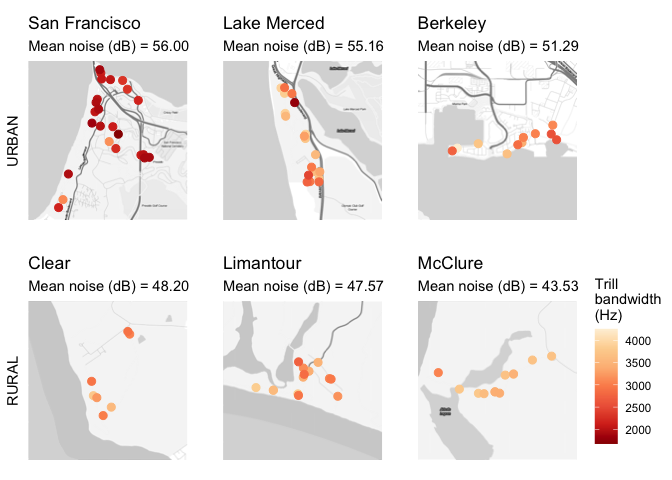
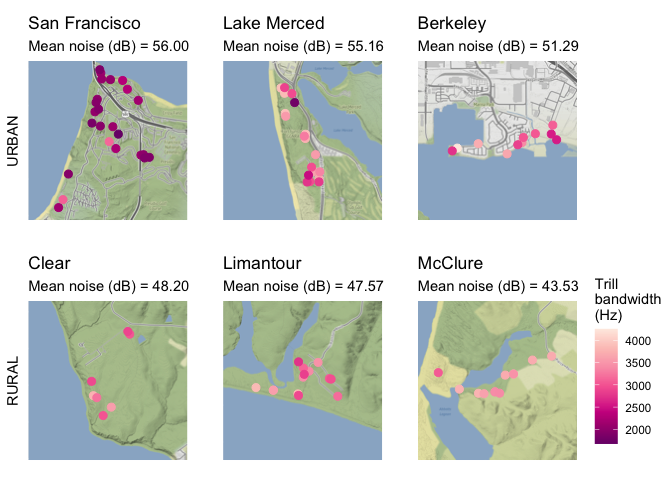
Added written analysis, messed with color scales

diff --git a/hw_7.md b/hw_7.md
@@ -43,7 +43,57 @@ ggmap(bad.map)  +
 
 ![](hw_7_files/figure-gfm/bad_plot-1.png)<!-- -->
 
+#### Analysis
+
+The gimmicky watercolor map was *probably* not the best choice. It lacks
+detail and the colors are garish.
+
+There are too many aesthetic mappings for the map data to be at all
+comprehensible; not only is point position mapped to latitude and
+longitude, but each point also has a **shape** mapping (habitat type),
+**size** mapping (song dialect), and not one but **two color** mappings
+– an inner fill color mapped to trill bandwidth, and an outline color
+mapped to background noise.
+
+Though it would be acceptable to map either trill bandwidth or
+background noise to a continuous color scale, the color combination is
+difficult to interpret (and to look at). The colors chosen for these two
+color scales are not only as unfriendly as possible to colorblind
+viewers, but also unhelpfully match the over-the-top map colors.
+
+The shape mapping is pointless, as the habitat types do not overlap
+anywhere on the map.
+
+The size mapping is an absolutely terrible choice to distinguish among
+song dialects, which are unordered factor levels. Not only does the size
+scale give a false impression of both ordered and continuous data, but
+it’s also impossible to distinguish most of the sizes. The large size of
+many of the points also exacerbates the bad overplotting.
+
+The greatest sin in this horrible graphic is the way it addresses
+overplotting: it jitters the points. While slight jitter may be
+appropriate in a scatterplot, datapoints on a map are supposed to accord
+with an actual geographical position and jittering them is a dishonest
+representation of the data. Moreover, good jitter is supposed to happen
+on a small enough scale that it doesn’t alter the interpretation of the
+data. Here the points are jittered by as much as 0.1 degrees – the
+equivalent of nearly seven miles. This makes it look as though birds
+were sampled continuously across the Bay Area (including, apparently, in
+the Pacific Ocean), when in reality they were sampled from 6 discrete
+study sites.
+
 ## Marginally better plot
+
+The premise of this plot isn’t great, as it’s probably too much data to
+include in one figure, but let’s try to fix it.
+
+Unjittered, the points wouldn’t show up clearly at this scale, since
+they’re concentrated in 6 small study sites. I’ll therefore facet the
+map into 6 more zoomed-in maps of these study sites. Of course, I will
+change the base map to something less gaudy and more informative. I’ll
+pull out the aesthetic mappings for habitat type (urban/rural), song
+dialect, and background noise and instead include it as a text label on
+the faceted grid.
 
 ``` r
 ## Setup
@@ -67,47 +117,47 @@ glimpse (dialect.summary)
 
 ``` r
 ## Make maps! One for each dialect. Would be easier in qGIS
-presidio <- ggmap(get_map(center=c(-122.4751, 37.80025), source = "stamen", maptype = "toner-lite", zoom = 15))
-lame <- ggmap(get_map(center=c(-122.5015, 37.71755), source = "stamen", maptype = "toner-lite", zoom = 15))
-richmond <- ggmap(get_map(center=c(-122.3435, 37.90985), source = "stamen", maptype = "toner-lite", zoom = 15))
-commonweal <- ggmap(get_map(center=c(-122.7240, 37.91065), source = "stamen", maptype = "toner-lite", zoom = 15))
-limantour <- ggmap(get_map(center=c(-122.8828, 38.02837), source = "stamen", maptype = "toner-lite", zoom = 15))
-abla  <- ggmap(get_map(center=c(-122.9448, 38.12043), source = "stamen", maptype = "toner-lite", zoom = 15))
+presidio <- ggmap(get_map(center=c(-122.4751, 37.80025), source = "stamen", maptype = "terrain", zoom = 15))
+lame <- ggmap(get_map(center=c(-122.5015, 37.71755), source = "stamen", maptype = "terrain", zoom = 15))
+richmond <- ggmap(get_map(center=c(-122.3435, 37.90985), source = "stamen", maptype = "terrain", zoom = 15))
+commonweal <- ggmap(get_map(center=c(-122.7240, 37.91065), source = "stamen", maptype = "terrain", zoom = 15))
+limantour <- ggmap(get_map(center=c(-122.8828, 38.02837), source = "stamen", maptype = "terrain", zoom = 15))
+abla  <- ggmap(get_map(center=c(-122.9448, 38.12043), source = "stamen", maptype = "terrain", zoom = 15))
 
 
 SF <- presidio +
   geom_point(data = data, mapping = aes(x = WEST.COORD, y = NORTH.COOR, color = trill.bw), size = 2.5) +
-  scale_color_distiller(palette = "OrRd") +
+  scale_color_distiller(palette = "RdPu") +
   theme(axis.ticks = element_blank(), axis.text = element_blank(), axis.title.x = element_blank(), legend.position = "none") +
   labs(title = "San Francisco", subtitle = "Mean noise (dB) = 56.00", y = "URBAN")
 
 SF.LM <- lame +
   geom_point(data = data, mapping = aes(x = WEST.COORD, y = NORTH.COOR, color = trill.bw), size = 2.5) +
-  scale_color_distiller(palette = "OrRd") +
+  scale_color_distiller(palette = "RdPu") +
   theme(axis.ticks = element_blank(), axis.text = element_blank(), axis.title.x = element_blank(), legend.position = "none") +
   labs(title = "Lake Merced", subtitle = "Mean noise (dB) = 55.16", y = "")
 
 berkeley <- richmond +
   geom_point(data = data, mapping = aes(x = WEST.COORD, y = NORTH.COOR, color = trill.bw), size = 2.5) +
-  scale_color_distiller(palette = "OrRd") +
+  scale_color_distiller(palette = "RdPu") +
   theme(axis.ticks = element_blank(), axis.text = element_blank(), axis.title.x = element_blank(), legend.position = "none") +
   labs(title = "Berkeley", subtitle = "Mean noise (dB) = 51.29", y = "")
 
 clear <- commonweal +
   geom_point(data = data, mapping = aes(x = WEST.COORD, y = NORTH.COOR, color = trill.bw), size = 2.5) +
-  scale_color_distiller(palette = "OrRd") +
+  scale_color_distiller(palette = "RdPu") +
   theme(axis.ticks = element_blank(), axis.text = element_blank(), axis.title.x = element_blank(), legend.position = "none") +
   labs(title = "Clear", subtitle = "Mean noise (dB) = 48.20", y = "RURAL")
 
 lima <- limantour +
   geom_point(data = data, mapping = aes(x = WEST.COORD, y = NORTH.COOR, color = trill.bw), size = 2.5) +
-  scale_color_distiller(palette = "OrRd") +
+  scale_color_distiller(palette = "RdPu") +
   theme(axis.ticks = element_blank(), axis.text = element_blank(), axis.title.x = element_blank(), legend.position = "none") +
   labs(title = "Limantour", subtitle = "Mean noise (dB) = 47.57", y = "")
 
 mcclure <- abla +
   geom_point(data = data, mapping = aes(x = WEST.COORD, y = NORTH.COOR, color = trill.bw), size = 2.5) +
-  scale_color_distiller(palette = "OrRd") +
+  scale_color_distiller(palette = "RdPu") +
   theme(axis.ticks = element_blank(), axis.text = element_blank(), axis.title.x = element_blank(), legend.position = "none") +
   labs(title = "McClure", subtitle = "Mean noise (dB) = 43.53", y = "")
 
@@ -115,7 +165,7 @@ mcclure <- abla +
 ## A dummy plot to extract the legend from...
 dummyplot <- ggplot(data, aes(x = WEST.COORD, y = NORTH.COOR, color = trill.bw)) +
   geom_point() +
-  scale_color_distiller(palette = "OrRd", name = str_wrap("Trill bandwidth (Hz)", width = 3))
+  scale_color_distiller(palette = "RdPu", name = str_wrap("Trill bandwidth (Hz)", width = 3))
 
 
 ## Can't facet wrap this, so I'm arranging with ggdraw and the package cowplot
